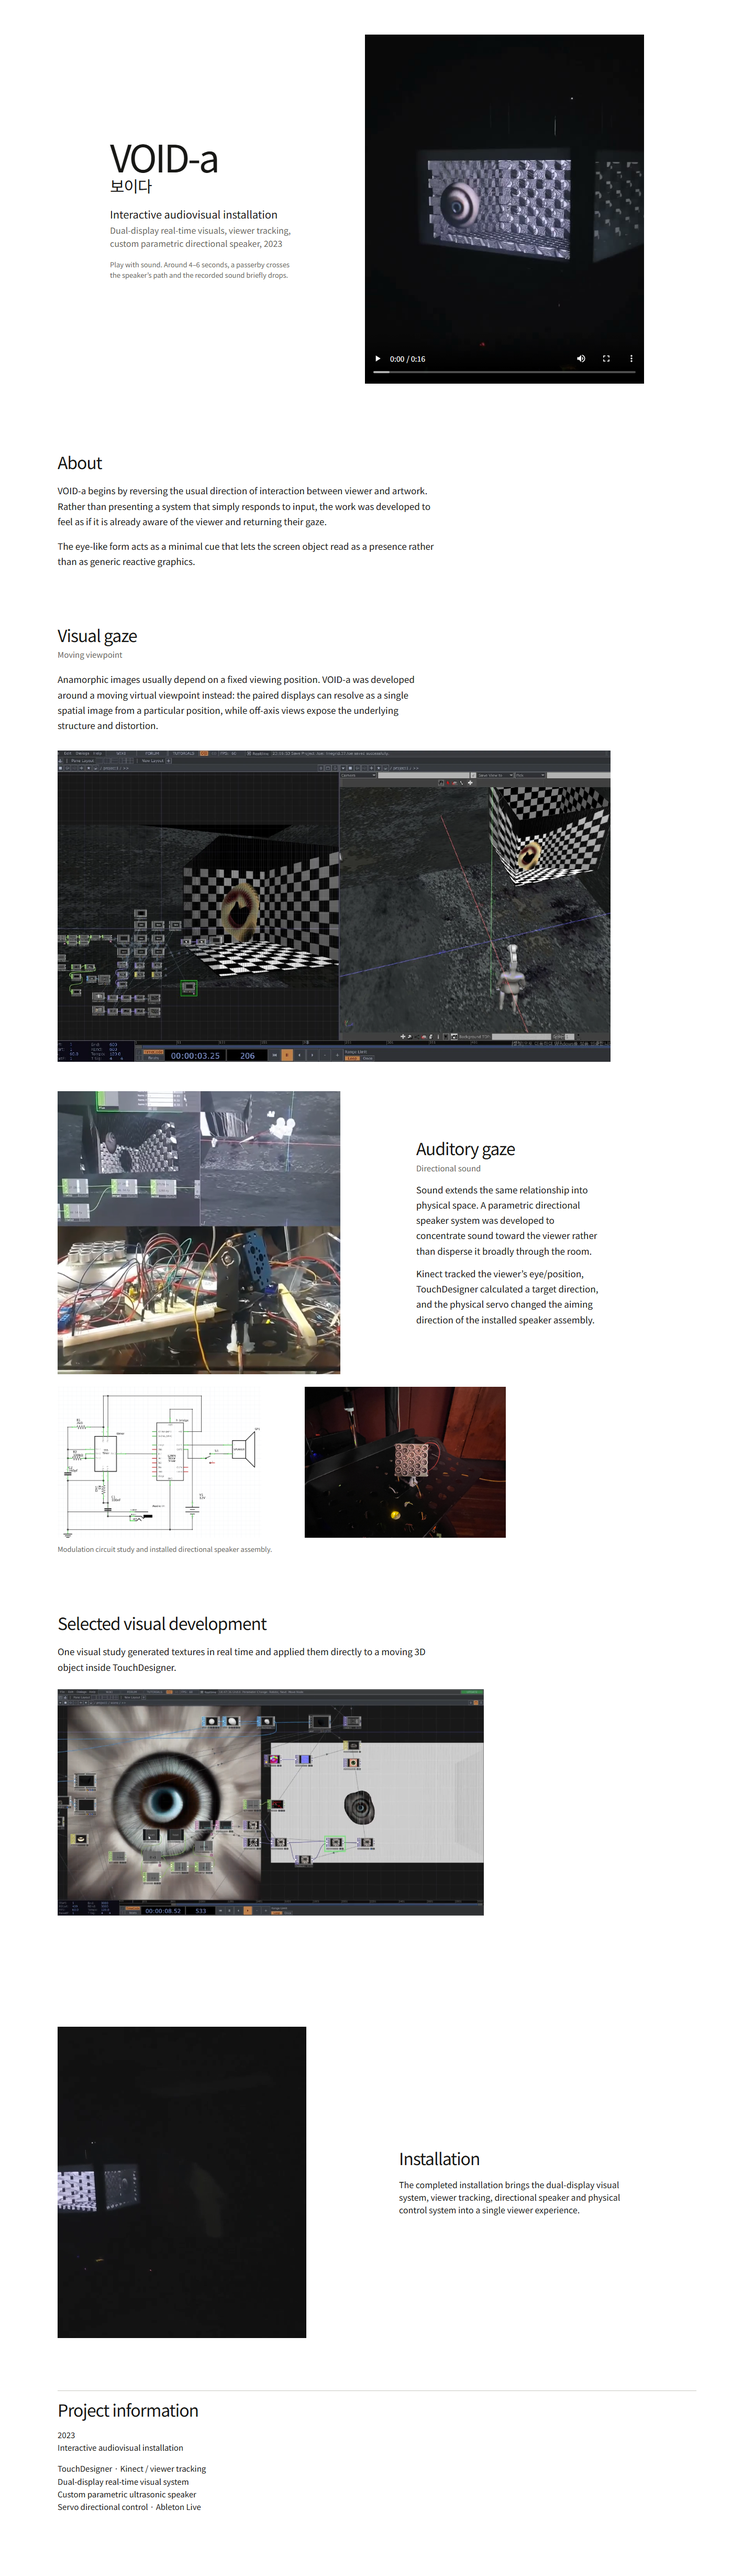
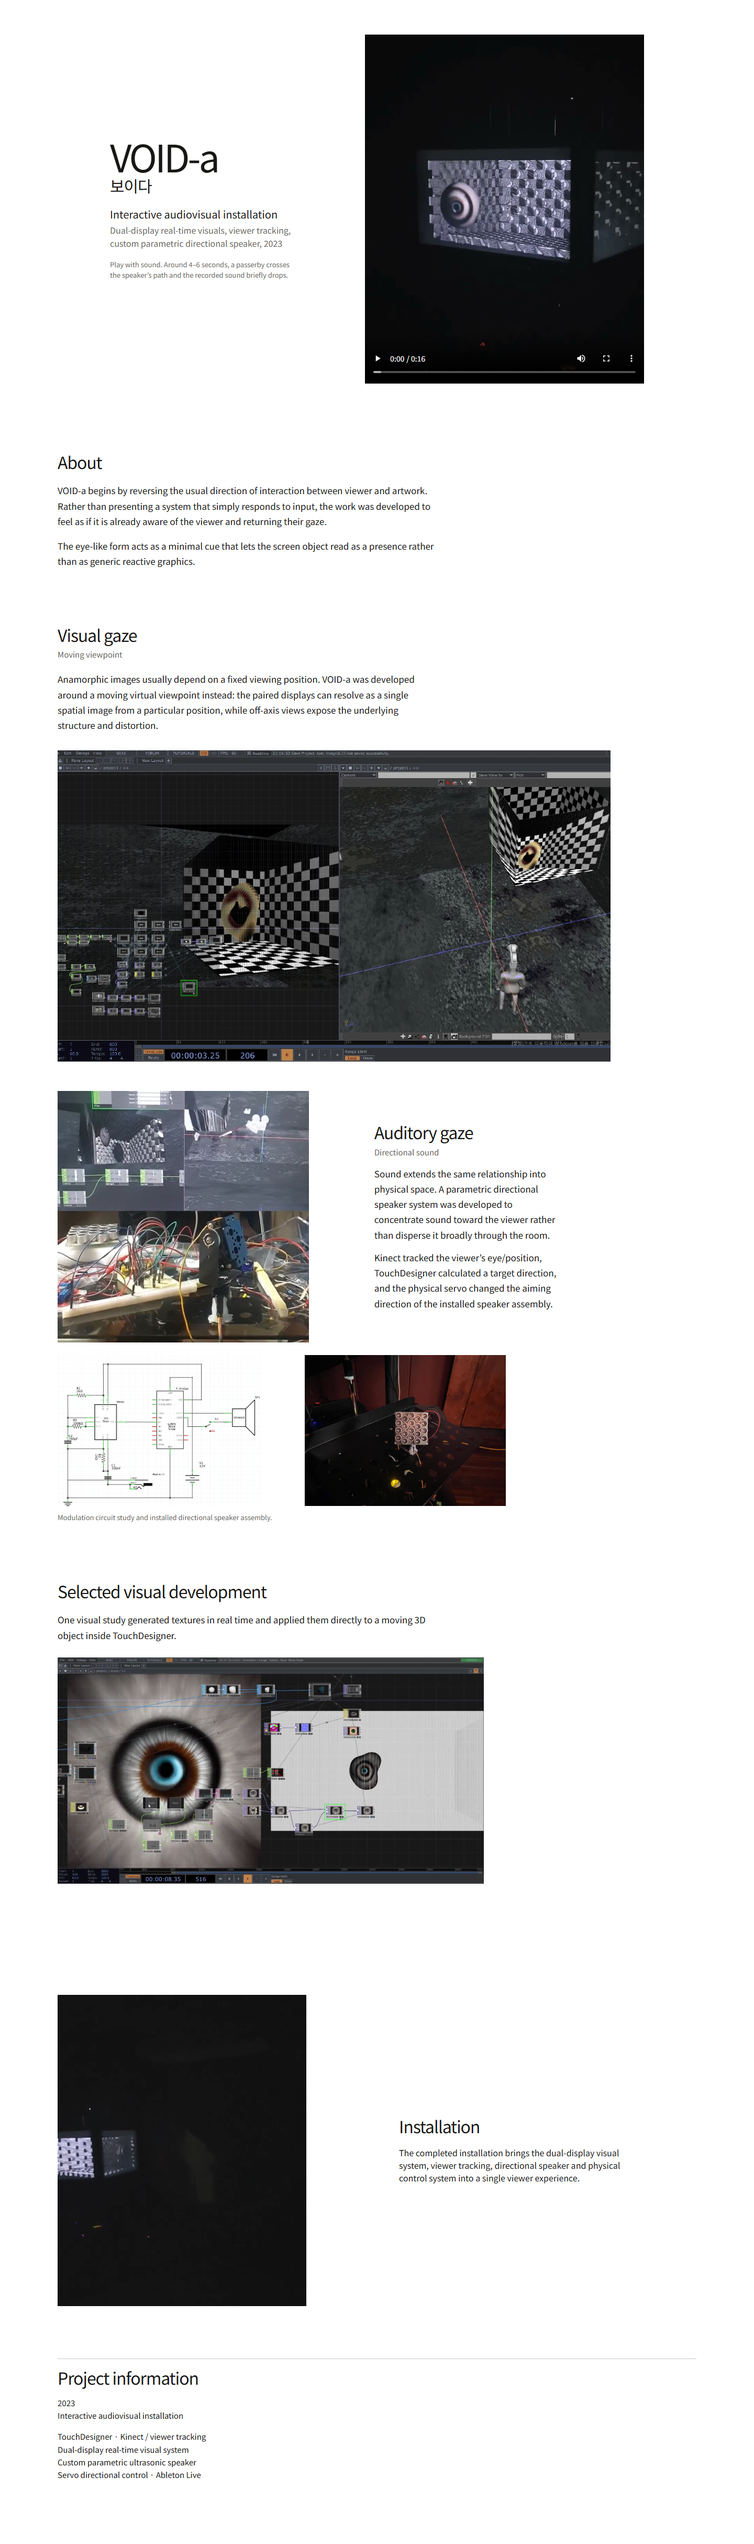
layout with a strict 1040 / 760 / 650 / 480 hierarchy: 1040 primary stage, 760 supporting media, 650 text rail, and 480 portrait/technical media. Center the 1040 article stage and align normal sections to the same left edge.

diff --git a/src/routes/work/void-a/+page.svelte b/src/routes/work/void-a/+page.svelte
@@ -201,6 +201,10 @@
 		padding: clamp(24px, 4vw, 60px) 0 112px;
 		color: var(--page-ink);
 	}
+	.project-page article {
+		width: min(100%, 1040px);
+		margin-inline: auto;
+	}
 
 	figure,
 	h1,
@@ -221,11 +225,12 @@
 	video { background: #e5e4e0; }
 
 	.opening {
-		max-width: 1020px;
-		margin: 0 auto;
+		width: min(100%, 1020px);
+		max-width: none;
+		margin-inline: auto;
 		display: grid;
-		grid-template-columns: minmax(0, 0.58fr) minmax(0, 1fr);
-		gap: clamp(30px, 4vw, 58px);
+		grid-template-columns: minmax(300px, 340px) minmax(0, 1fr);
+		gap: 64px;
 		align-items: center;
 	}
 	.opening-copy { min-width: 0; }
@@ -234,7 +239,7 @@
 	.format { margin-bottom: 4px; font-size: clamp(16px, 1.5vw, 20px); }
 	.opening-details { margin-bottom: 0; color: var(--page-muted); font-size: 16px; line-height: 1.55; }
 	.play-note { margin: 18px 0 0; color: var(--page-muted); font-size: 13px; line-height: 1.55; }
-	.primary-media { width: min(100%, 720px); justify-self: end; }
+	.primary-media { width: 100%; justify-self: end; }
 	.primary-media video { background: #111; }
 	.primary-media video { width: auto; max-width: 100%; max-height: 74vh; margin-left: auto; }
 	figcaption { margin-top: 10px; color: var(--page-muted); font-size: 13px; line-height: 1.55; }
@@ -242,9 +247,10 @@
 	.text-section,
 	.content-section,
 	.project-information {
-		max-width: 1220px;
-		margin-left: auto;
-		margin-right: auto;
+		width: 100%;
+		max-width: none;
+		margin-left: 0;
+		margin-right: 0;
 	}
 
 	.about { margin-top: clamp(82px, 10vw, 132px); }
@@ -258,57 +264,62 @@
 	.about h2 { margin-bottom: 22px; }
 	.section-heading > p { margin: 9px 0 0; color: var(--page-muted); font-size: 15px; }
 	.section-body { min-width: 0; }
-	.copy-rail { max-width: 720px; }
+	.copy-rail { max-width: 650px; }
 	.copy-rail p,
 	.section-body > p { margin-bottom: 18px; font-size: clamp(15px, 1.3vw, 17px); line-height: 1.72; }
-	.body-media { max-width: 1080px; margin: 38px 0 0; }
-	.split-view { margin-top: 34px; }
-	.split-view img { width: auto; max-width: 100%; max-height: 66vh; margin: 0; }
+	.body-media { width: 100%; max-width: 1040px; margin: 34px 0 0; }
+	.split-view { width: 100%; }
+	.split-view img { width: 100%; max-width: none; max-height: none; margin: 0; }
 	.media-pair { display: grid; grid-template-columns: repeat(2, minmax(0, 1fr)); gap: clamp(14px, 2vw, 26px); align-items: center; }
 	.media-pair img { width: auto; max-width: 100%; max-height: 43vh; margin: 0 auto; }
 	.auditory-bridge {
-		width: min(100%, 1080px);
+		width: 100%;
 		display: grid;
-		grid-template-columns: minmax(0, 540px) minmax(300px, 360px);
-		column-gap: clamp(50px, 4.5vw, 70px);
-		row-gap: 0;
-		align-items: center;
+		grid-template-columns: 480px 340px;
+		column-gap: 56px;
+		row-gap: 28px;
+		align-items: start;
 	}
-	.auditory-copy { grid-column: 2; grid-row: 1; min-width: 0; }
+	.auditory-copy { grid-column: 2; grid-row: 1; min-width: 0; padding-top: 34px; }
 	.auditory-copy .section-heading { margin-bottom: 16px; }
 	.auditory-copy > p { margin-bottom: 14px; font-size: clamp(15px, 1.3vw, 17px); line-height: 1.72; }
 	.auditory-copy > p:last-child { margin-bottom: 0; }
-	.servo-media { grid-column: 1; grid-row: 1; width: 100%; max-width: 620px; min-width: 0; }
-	.servo-media video { width: auto; max-width: 100%; height: auto; max-height: min(68vh, 620px); margin: 0; }
-	@media (min-width: 1001px) {
-		.servo-media video { max-width: 460px; }
-	}
-	.auditory-media { grid-column: 1 / -1; width: min(100%, 920px); margin-top: 24px; }
-	.auditory-media-parts { gap: clamp(14px, 2vw, 24px); }
-	.auditory-media-parts img { width: auto; max-height: 32vh; margin-left: 0; margin-right: 0; }
+	.servo-media { grid-column: 1; grid-row: 1; width: 480px; max-width: 100%; min-width: 0; }
+	.servo-media video { width: 100%; max-width: none; height: auto; max-height: none; margin: 0; }
+	.auditory-media { grid-column: 1 / -1; width: min(100%, 760px); margin-top: 0; }
+	.auditory-media-parts { grid-template-columns: repeat(2, minmax(0, 1fr)); gap: 20px; }
+	.auditory-media-parts img { width: 100%; max-width: none; max-height: none; margin: 0; }
 	.auditory-media figcaption { margin-top: 12px; }
 	@media (max-width: 1000px) {
 		.auditory-bridge { display: flex; flex-direction: column; align-items: stretch; gap: 24px; }
-		.auditory-copy { order: 0; }
-		.servo-media { order: 1; max-width: 620px; }
+		.auditory-copy { order: 0; padding-top: 0; }
+		.servo-media { order: 1; max-width: 480px; }
 		.auditory-bridge .auditory-media { order: 2; margin-top: 0; }
 	}
 	.development { margin-top: clamp(76px, 8.5vw, 112px); }
-	.development-media { max-width: 820px; margin-top: 28px; }
-	.development-media video { width: auto; max-width: 100%; max-height: 48vh; margin: 0; }
-	.installation { margin-top: clamp(148px, 17vw, 212px); }
-	.installation .section-body { max-width: 1080px; }
-	.installation-feature { display: grid; grid-template-columns: minmax(0, 1fr) minmax(220px, 0.72fr); gap: clamp(30px, 4vw, 58px); align-items: center; }
+	.development-media { max-width: 760px; margin-top: 28px; }
+	.development-media video { width: 100%; max-width: none; max-height: none; margin: 0; }
+	.installation { margin-top: clamp(111px, 12.75vw, 159px); }
+	.installation .section-body { width: min(100%, 960px); max-width: none; }
+	.installation-feature { display: grid; grid-template-columns: 480px minmax(0, 1fr); gap: 64px; align-items: center; }
 	.installation-video { margin-top: 0; }
-	.installation-video video { width: auto; max-width: 100%; max-height: 66vh; margin: 0; }
+	.installation-video video { width: 100%; max-width: none; max-height: none; margin: 0; }
 	.installation-copy h2 { margin: 0 0 20px; font-size: clamp(22px, 2.3vw, 32px); font-weight: 400; letter-spacing: -.035em; line-height: 1.12; }
-	.installation-copy .copy-rail { max-width: 480px; }
+	.installation-copy .copy-rail { max-width: 650px; }
 	.installation-copy p { margin-bottom: 0; }
 	.project-information { margin-top: clamp(68px, 7.5vw, 100px); padding-top: 18px; border-top: 1px solid var(--page-rule); }
 	.project-information .section-heading { margin-bottom: 18px; }
-	.project-facts { max-width: 840px; font-size: 15px; line-height: 1.62; }
+	.project-facts {
+		width: min(100%, 760px);
+		max-width: none;
+		display: grid;
+		grid-template-columns: 232px minmax(0, 1fr);
+		column-gap: 64px;
+		font-size: 15px;
+		line-height: 1.62;
+	}
 	.project-facts p { margin: 0; }
-	.project-facts .project-systems { margin-top: 16px; }
+	.project-facts .project-systems { margin-top: 0; }
 
 	@media (max-width: 700px) {
 		.project-page { width: min(100% - 32px, 1440px); padding-top: 24px; }
@@ -339,5 +350,8 @@
 		.installation-copy { grid-row: 1; }
 		.body-media { margin-top: 32px; }
 		.project-information { margin-top: 72px; }
+		.project-facts { grid-template-columns: 1fr; row-gap: 12px; }
+		.project-facts .project-systems { margin-top: 0; }
+		.installation { margin-top: 90px; }
 	}
 </style>
